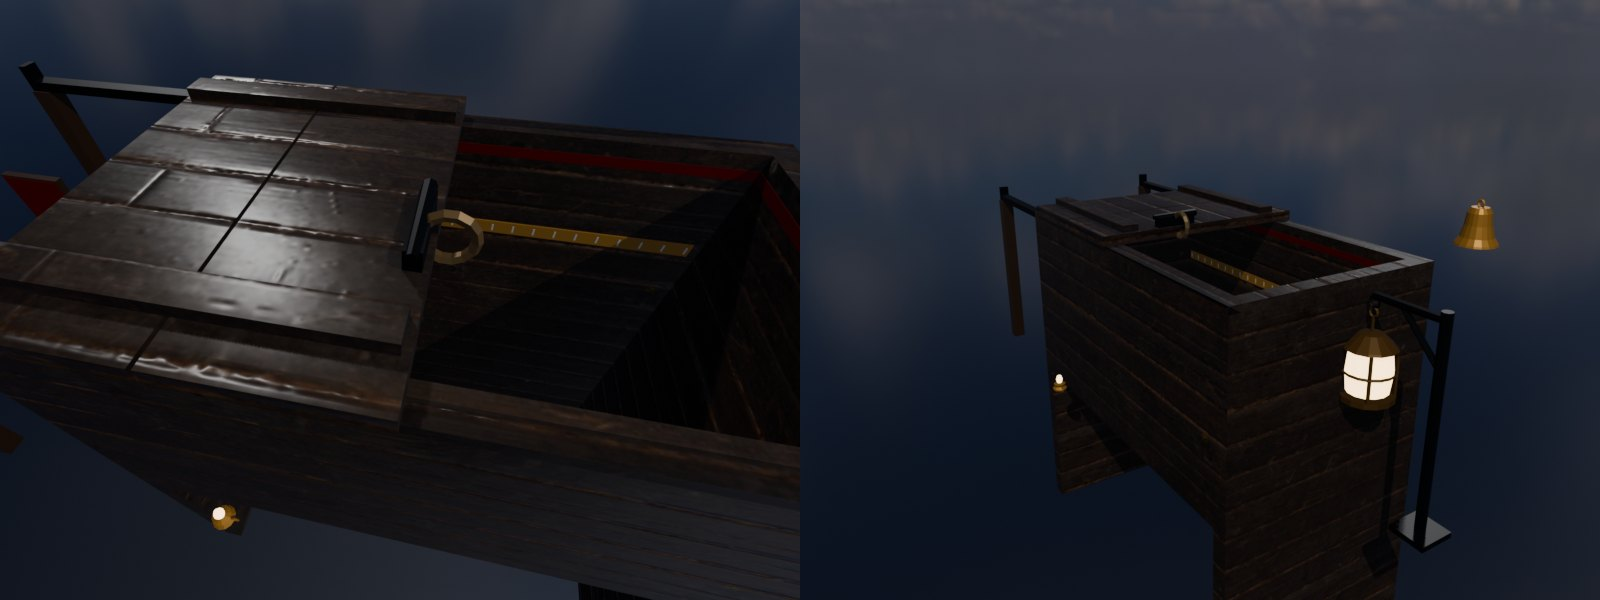
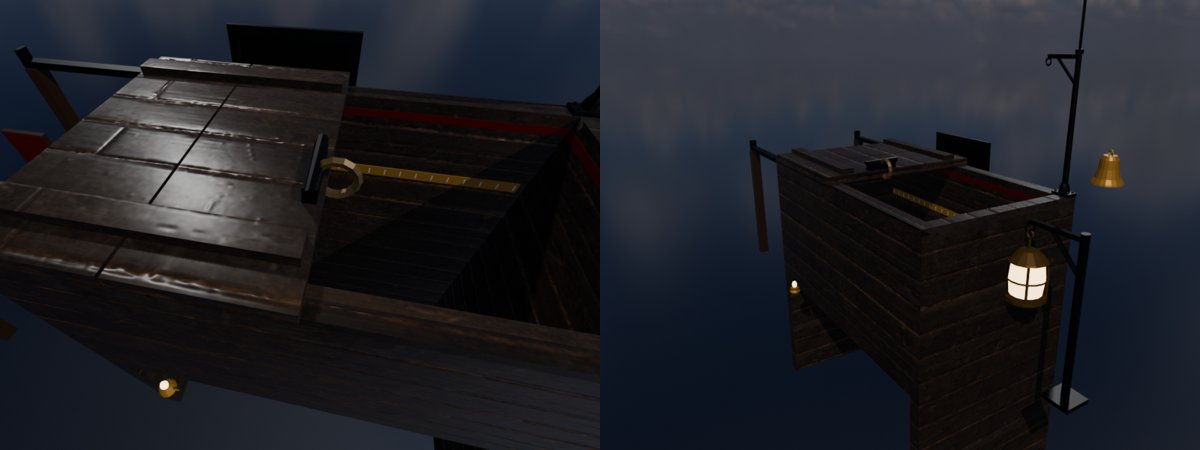
v2 ship and bank: bell post, feather hook and wash port in the hatch set; flood glass and round lamp
ambar.glb gains bell_post (foot at (0.52, -0.36, -0.765), arm 0.12 to -x
with a shackle), feather_hook (a crook and cord; feather_hook_end at
(0.47, 0.262, -0.765)) and wash_port (riveted frame round a 0.32 x 0.12
opening, wash_port_hole); the old nodes are unchanged.

New in public/v2/nesne: flood_glass.glb (0.30 m tube on a brass foot,
red enamel cap, scale; flood_glass_water is a 1 m unit column to scale
in y) and round_lamp.glb (1.1 m cast-iron post, 17 cm frosted globe
round_lamp_glass with its own material).

diff --git a/art/v2/nesne/final_props.py b/art/v2/nesne/final_props.py
@@ -1,8 +1,8 @@
-"""Two props for the last scenes (S11, S16, S30-S31), one GLB each:
+"""Props for the last scenes (S11, S16, S30-S31) and the bank (S15-S16), one GLB each:
 
   V2_CACHE=<cache> nice -n 20 blender -b --factory-startup --python art/v2/nesne/final_props.py -- <prop> <out.glb> <tex_dir> [--preview dir]
 
-prop: street_lamp | family_room. tex_dir holds wallpaper.png and palette.png from room_textures.py.
+prop: street_lamp | family_room | flood_glass | round_lamp. tex_dir holds wallpaper.png and palette.png from room_textures.py.
 three.js metres, Y up; textures from Poly Haven (CC0): old_wood_floor, dark_paneled_wood, red_brick_03.
 """
 import math
@@ -259,7 +259,67 @@ def family_room():
     return root, [('window', tuple(T(0.3, 1.6, 3.2)), tuple(T(0, 1.2, 0)), 30), ('inside', tuple(T(1.2, 1.7, 0.8)), tuple(T(-0.3, 1.0, -0.6)), 22)]
 
 
-top, views = {'street_lamp': street_lamp, 'family_room': family_room}[PROP]()
+# ------------------------------------------------------------------ flood glass (the bank, S15-S16)
+def flood_glass():
+    """A brass-footed glass tube 0.30 m tall and 4.4 cm across, a red enamel cap on top, brass at its
+    foot, a brass back stay with a scale (on the -z side, so the scale reads from +z through the
+    glass). Origin at the tube's bottom (inside). flood_glass_water: a unit column 1 m tall, 1.8 cm
+    in radius, origin at its bottom; scale its y for the water's height (0.30 fills the tube)."""
+    root = empty('flood_glass')
+    brass = lib.flat('flood_brass', (0.78, 0.57, 0.26), rough=0.32, metal=0.6)
+    enamel = lib.flat('flood_red_enamel', (0.55, 0.04, 0.04), rough=0.18)
+    white = lib.flat('flood_scale_white', (0.92, 0.9, 0.84), rough=0.5)
+    glass = lib.flat('flood_glass_glass', (0.86, 0.93, 0.95), rough=0.04, alpha=0.2)
+    water = lib.flat('flood_water', (0.06, 0.2, 0.22), rough=0.08)
+    R, H = 0.022, 0.30
+    foot = [bm_lathe((0, 0, 0), [(0.0, -0.05), (0.05, -0.05), (0.052, -0.045), (0.046, -0.04), (0.034, -0.034), (0.027, -0.022),
+                                  (0.024, -0.012), (0.028, -0.008), (0.026, 0.016), (0.0, 0.016)], 20)]
+    collar = [bm_lathe((0, 0, 0), [(0.0, H - 0.014), (0.026, H - 0.014), (0.026, H + 0.004), (0.0, H + 0.004)], 20)]
+    cap = [bm_lathe((0, 0, 0), [(0.0, H + 0.004), (0.027, H + 0.004), (0.027, H + 0.012), (0.022, H + 0.026), (0.012, H + 0.034), (0.0, H + 0.036)], 20)]
+    knob = [bm_lathe((0, 0, 0), [(0.0, H + 0.035), (0.006, H + 0.036), (0.007, H + 0.042), (0.004, H + 0.048), (0.0, H + 0.049)], 10)]
+    # back stay: a flat brass strip from the foot to the collar behind the tube, the scale painted on it
+    stay = [bm_box((-0.008, 0.0, -R - 0.012), (0.008, H, -R - 0.009)), bm_box((-0.004, -0.008, -R - 0.012), (0.004, 0.0, -0.01)),
+            bm_box((-0.004, H - 0.01, -R - 0.012), (0.004, H, -0.01))]
+    ticks = []
+    for k in range(1, 15):
+        y = H * k / 15
+        w = 0.012 if k % 5 == 0 else 0.007
+        ticks.append(bm_box((-w / 2, y - 0.0012, -R - 0.009), (w / 2, y + 0.0012, -R - 0.0085)))
+    obj('flood_glass_fittings', [(merge(foot + collar + knob + stay), brass), (merge(cap), enamel), (merge(ticks), white)], root, smooth=True)
+    tube = bm_tube((0, 0.0, 0), (0, H - 0.002, 0), R, seg=22, caps=False)
+    obj('flood_glass_tube', [(tube, glass)], root, smooth=True)
+    w = bm_tube((0, 0.0, 0), (0, 1.0, 0), 0.018, seg=18, caps=True)
+    obj('flood_glass_water', [(w, water)], root, smooth=True)
+    return root, [('front', tuple(T(0.35, 0.3, 0.75)), tuple(T(0, 0.14, 0)), 30)]
+
+
+# ------------------------------------------------------------------ round lamp (the bank, on the sandbags)
+def round_lamp():
+    """A small cast-iron lamp post 1.1 m tall with a 17 cm frosted glass globe on top. Origin at the
+    post's foot. round_lamp_glass is the globe (its own material, lit by the game)."""
+    root = empty('round_lamp')
+    iron = lib.flat('lamp_cast_iron', (0.05, 0.065, 0.055), rough=0.45, metal=0.5)
+    frost = lib.flat('round_lamp_frost', (0.9, 0.9, 0.86), rough=0.45)
+    post = [bm_lathe((0, 0, 0), [(0.0, 0.0), (0.085, 0.0), (0.085, 0.018), (0.07, 0.03), (0.062, 0.07), (0.05, 0.1), (0.038, 0.14),
+                                 (0.04, 0.16), (0.03, 0.18), (0.026, 0.9), (0.032, 0.92), (0.032, 0.95), (0.024, 0.97), (0.022, 1.02),
+                                 (0.03, 1.04), (0.05, 1.07), (0.058, 1.09), (0.056, 1.1), (0.04, 1.1), (0.0, 1.095)], 14)]
+    for k in range(8):
+        a = 2 * math.pi * k / 8
+        post.append(bm_box((0.058 * math.cos(a) - 0.006, 0.03, 0.058 * math.sin(a) - 0.006), (0.058 * math.cos(a) + 0.006, 0.1, 0.058 * math.sin(a) + 0.006)))
+    # four small claws round the globe's neck
+    for k in range(4):
+        a = math.pi / 4 + k * math.pi / 2
+        post.append(bm_tube((0.052 * math.cos(a), 1.095, 0.052 * math.sin(a)), (0.062 * math.cos(a), 1.13, 0.062 * math.sin(a)), 0.004, seg=5))
+    obj('round_lamp_iron', [(merge(post), iron)], root, smooth=True)
+    g = bmesh.new()
+    bmesh.ops.create_uvsphere(g, u_segments=24, v_segments=14, radius=0.085)
+    bmesh.ops.delete(g, geom=[v for v in g.verts if v.co.z < -0.078], context='VERTS')     # open neck, hidden in the cup
+    bmesh.ops.translate(g, vec=T(0, 1.1 + 0.085 - 0.012, 0), verts=g.verts)
+    obj('round_lamp_glass', [(g, frost)], root, smooth=True)
+    return root, [('front', tuple(T(0.9, 1.0, 1.9)), tuple(T(0, 0.65, 0)), 35)]
+
+
+top, views = {'street_lamp': street_lamp, 'family_room': family_room, 'flood_glass': flood_glass, 'round_lamp': round_lamp}[PROP]()
 bpy.context.view_layer.update()
 t, calls = lib.stats(COLL)
 lib.write_json(os.path.join(HERE, 'stats', f'{PROP}.json'), {'triangles': t, 'draw_calls': calls, 'nodes': sorted(o.name for o in COLL.all_objects)})

diff --git a/art/v2/gemi/ambar.py b/art/v2/gemi/ambar.py
@@ -312,6 +312,59 @@ sl = [bm_lathe((0, 0, 0), [(0.0, 0.0), (0.022, 0.0), (0.024, 0.006), (0.016, 0.0
 chim = [bm_lathe((0, 0, 0), [(0.0, 0.026), (0.008, 0.026), (0.011, 0.038), (0.007, 0.05), (0.0, 0.05)], 10)]
 obj('step_lamp_brass', [(merge(sl), PAL, 'brass'), (merge(chim), GLASS, None)], step)
 
+# bell post: an iron bracket standing on the coaming's far wall, its foot (origin) at (0.52, -0.36, -0.765),
+# 0.46 tall, the arm 0.12 to -x at the top with a shackle at its end (the bell hangs there)
+bpost = empty('bell_post', T(0.52, TOP, -0.765), root)
+bp = [bm_box((-0.035, 0.0, -0.022), (0.035, 0.01, 0.022)),                       # foot plate on the coaming
+      bm_lathe((0, 0, 0), [(0.0, 0.01), (0.02, 0.01), (0.016, 0.03), (0.012, 0.04)], 10),
+      bm_tube((0, 0.03, 0), (0, 0.46, 0), 0.011, 0.009, seg=10),
+      bm_tube((0, 0.448, 0), (-0.12, 0.448, 0), 0.008, seg=8),                  # the arm
+      bm_tube((0, 0.36, 0), (-0.085, 0.446, 0), 0.005, seg=6),                  # brace under it
+      bm_lathe((0, 0, 0), [(0.0, 0.455), (0.013, 0.455), (0.013, 0.468), (0.0, 0.472)], 10),   # cap where the feather iron rises
+      bm_torus((-0.12, 0.43, 0), 0.011, 0.0035, axis='Z', seg=10, rseg=4)]      # shackle for the bell
+for sx in (-0.025, 0.025):
+    for sz in (-0.013, 0.013):
+        bp.append(bm_lathe((sx, 0, sz), [(0.0, 0.01), (0.005, 0.01), (0.004, 0.015), (0.0, 0.016)], 6))   # bolt heads
+obj('bell_post_iron', [(merge(bp), PAL, 'iron')], bpost)
+
+# feather hook: a thin iron rising 0.23 from the post's top, turned over in a small crook (about 7 cm of iron)
+# toward -x, a 6 cm cord from its end; the feather hangs at the cord's end, feather_hook_end, (0.47, 0.262, -0.765)
+fhook = empty('feather_hook', T(0.52, TOP + 0.46, -0.765), root)
+fh = [bm_tube((0, 0.0, 0), (0, 0.23, 0), 0.0045, seg=6)]
+prev = (0.0, 0.23, 0.0)
+for i in range(1, 9):
+    a = math.pi * i / 8                                                           # over the top, from +x to -x
+    pt = (-0.025 + 0.025 * math.cos(a), 0.23 + 0.025 * math.sin(a) - 0.008 * (i / 8) ** 2, 0.0)
+    fh.append(bm_tube(prev, pt, 0.004, seg=6))
+    prev = pt
+end_y = 0.262 - (TOP + 0.46)                                                      # the cord's end, in the hook's frame
+cord = [bm_tube((prev[0], prev[1], 0), (prev[0], end_y + 0.004, 0), 0.0022, seg=5),
+        bm_lathe((prev[0], 0, 0), [(0.0, end_y - 0.002), (0.0045, end_y + 0.002), (0.004, end_y + 0.008), (0.0, end_y + 0.011)], 6)]   # knot
+obj('feather_hook_iron', [(merge(fh), PAL, 'iron'), (merge(cord), PAL, 'rope')], fhook)
+empty('feather_hook_end', T(prev[0], end_y, 0), fhook)
+
+# wash port in the bulwark: a riveted iron frame round a 0.32 x 0.12 opening, centre (origin) at
+# (-0.20, -0.36, -0.915), facing the player (+z); the opening is a dark plate just in front of the
+# bulwark's face (hide wash_port_hole if the bulwark itself is cut open there)
+wport = empty('wash_port', T(-0.20, TOP, -0.915), root)
+OW, OH, FW, FD = 0.32, 0.12, 0.028, 0.014
+frame = [bm_box((-OW / 2 - FW, OH / 2, 0), (OW / 2 + FW, OH / 2 + FW, FD)),          # top
+         bm_box((-OW / 2 - FW, -OH / 2 - FW, 0), (OW / 2 + FW, -OH / 2, FD + 0.006)),  # sill, a little proud
+         bm_box((-OW / 2 - FW, -OH / 2, 0), (-OW / 2, OH / 2, FD)),
+         bm_box((OW / 2, -OH / 2, 0), (OW / 2 + FW, OH / 2, FD))]
+rv = []
+for k in range(7):
+    x = -OW / 2 - FW / 2 + (OW + FW) * k / 6
+    for y in (OH / 2 + FW / 2, -OH / 2 - FW / 2):
+        b = bmesh.new()
+        bmesh.ops.create_uvsphere(b, u_segments=6, v_segments=3, radius=0.0045)
+        bmesh.ops.scale(b, vec=(1, 1, 0.6), verts=b.verts)
+        bmesh.ops.translate(b, vec=T(x, y, FD + (0.006 if y < 0 else 0.0)), verts=b.verts)
+        rv.append(b)
+obj('wash_port_frame', [(merge(frame + rv), PAL, 'iron')], wport)
+hole = bm_box((-OW / 2, -OH / 2, 0.001), (OW / 2, OH / 2, 0.004))
+obj('wash_port_hole', [(hole, PAL, 'dark')], wport)
+
 # ------------------------------------------------------------------ export
 bpy.context.view_layer.update()
 t, calls = lib.stats(COLL)

diff --git a/art/v2/gemi/README.md b/art/v2/gemi/README.md
@@ -67,7 +67,7 @@ node art/v2/tools/pack.mjs /tmp/gemi_raw.glb public/v2/gemi/gemi.glb art/v2/gemi
 
 ## Hatch set for S13 (`ambar.glb`)
 
-`public/v2/gemi/ambar.glb`: the hatch the player leans over in S13, made in `art/v2/gemi/ambar.py`. 2,404 triangles, three materials (wet old deck wood from Poly Haven `old_wood_floor`, a small painted palette for iron, brass, red paint, white and rope, warm lantern glass). Laid out in the scene's frame: the root `ambar`'s origin is the player's eye, +x right, +y up, -z ahead toward the bulwark (three.js metres).
+`public/v2/gemi/ambar.glb`: the hatch the player leans over in S13, made in `art/v2/gemi/ambar.py`. 3,472 triangles, three materials (wet old deck wood from Poly Haven `old_wood_floor`, a small painted palette for iron, brass, red paint, white and rope, warm lantern glass). Laid out in the scene's frame: the root `ambar`'s origin is the player's eye, +x right, +y up, -z ahead toward the bulwark (three.js metres).
 
 ![hatch set](preview/ambar.jpg)
 
@@ -83,6 +83,9 @@ node art/v2/tools/pack.mjs /tmp/gemi_raw.glb public/v2/gemi/gemi.glb art/v2/gemi
 | `gauge` | the float gauge board, 0.11 x 0.46 facing the player, top 22 % red, bottom 14 % brass, ticks between; origin at its middle |
 | `gauge_pointer` | child of `gauge`: a 9 cm brass arrow pointing left (-x) at the board, origin at its tip |
 | `step_lamp` | a 5 cm brass oil lamp with a glowing chimney, origin at its foot (clone for three) |
+| `bell_post` | an iron bracket for the bell standing on the coaming's far wall: foot plate with four bolts, origin at its foot (0.52, -0.36, -0.765), 0.46 tall, an arm 0.12 to -x at the top with a brace under it and a shackle at the end (0.40, 0.07, -0.765) for the bell |
+| `feather_hook` | a thin iron rising 0.23 from the post's top (origin there, (0.52, 0.10, -0.765)), turned over in a small crook (about 7 cm of iron) toward -x, and a 6 cm cord with a knot from its end. Child `feather_hook_end`: the cord's end, (0.47, 0.262, -0.765), where the feather hangs |
+| `wash_port` | the wash port in the bulwark, origin at its middle (-0.20, -0.36, -0.915), facing the player: a riveted iron frame (2.8 cm wide, 1.4 cm proud, the sill a little more) round a 0.32 x 0.12 opening. `wash_port_hole` is the opening, a dark plate 1-4 mm in front of the bulwark's face; hide it if the bulwark itself is cut open there |
 
 ```bash
 V2_CACHE=<cache> nice -n 20 blender -b --factory-startup --python art/v2/gemi/ambar.py -- /tmp/ambar_raw.glb --preview /tmp/prev

diff --git a/art/v2/nesne/README.md b/art/v2/nesne/README.md
@@ -135,3 +135,20 @@ Made in `art/v2/nesne/final_props.py` (pictures from `room_textures.py`; Poly Ha
 - `family_room`: the root, on the floor at the room's middle.
 - `room_glass_centre`: the middle of the window opening, where the glass goes.
 - `pendant_bulb`: the lamp's bulb (`room_lamp_bulb` is its glowing mesh).
+
+## The bank: flood glass and round lamps (S15-S16)
+
+Also made in `art/v2/nesne/final_props.py`.
+
+![flood glass and round lamp](preview/bank_props.jpg)
+
+**`flood_glass.glb`**, 936 triangles, 5 materials: a glass tube 0.30 m tall and 4.4 cm across on a brass foot, brass collar and a red enamel cap with a small knob on top, a flat brass back stay with a white scale (on the -z side, read from +z through the glass).
+- `flood_glass`: the root, at the tube's bottom (inside); the foot goes 5 cm below it.
+- `flood_glass_tube`: the glass (clear, alpha 0.2, BLEND).
+- `flood_glass_water`: a unit water column 1 m tall and 1.8 cm in radius, origin at its bottom; scale its y to the water's height (0.30 fills the tube).
+- `flood_glass_fittings`: brass, enamel and the scale.
+
+**`round_lamp.glb`**, 1,216 triangles, 2 materials: a small cast-iron lamp post 1.1 m tall (fluted bell base, slim shaft, collar, a cup with four claws) with a 17 cm frosted glass globe on top (globe centre 1.17 m, top 1.26 m).
+- `round_lamp`: the root, at the post's foot.
+- `round_lamp_glass`: the globe, its own material (`round_lamp_frost`, not lit; give it emissive to light it).
+- `round_lamp_iron`: the post.
